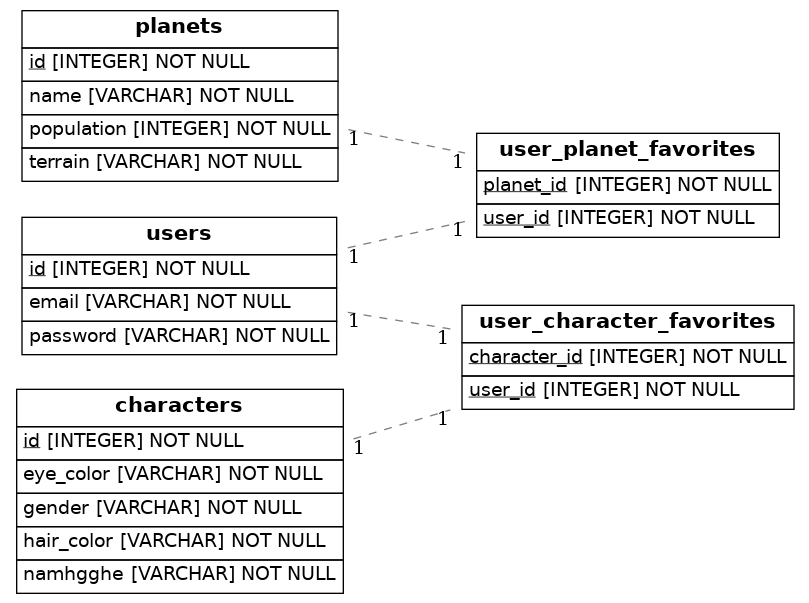
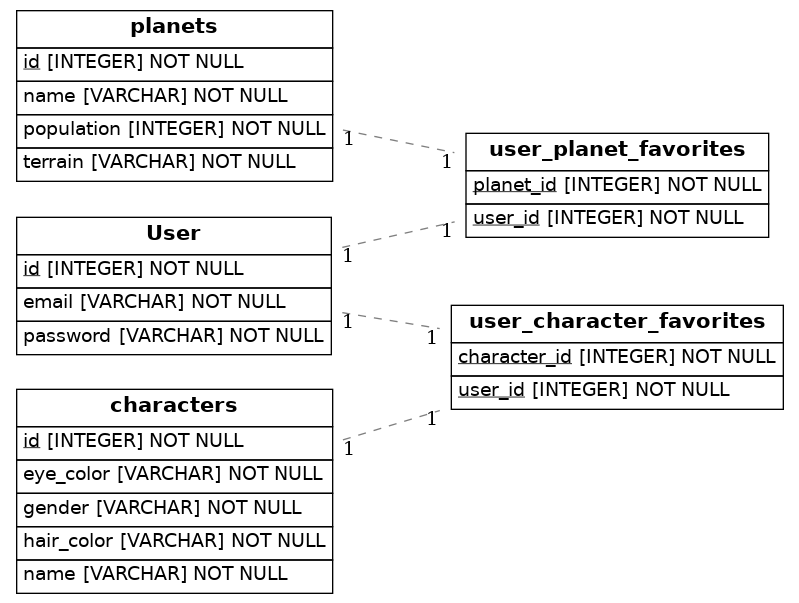
fixing one technicallity

diff --git a/src/models.py b/src/models.py
@@ -11,17 +11,17 @@ Base = declarative_base()
 class UserPlanetFavorite(Base):
     __tablename__ = "user_planet_favorites"
 
-    user_id = Column(Integer, ForeignKey("users.id"), primary_key=True)
+    user_id = Column(Integer, ForeignKey("User.id"), primary_key=True)
     planet_id = Column(Integer, ForeignKey("planets.id"), primary_key=True)
 
 class UserCharacterFavorite(Base):
     __tablename__ = "user_character_favorites"
 
-    user_id = Column(Integer, ForeignKey("users.id"), primary_key=True)
+    user_id = Column(Integer, ForeignKey("User.id"), primary_key=True)
     character_id = Column(Integer, ForeignKey("characters.id"), primary_key=True)
 
 class User(Base):
-    __tablename__ = "users"
+    __tablename__ = "User"
 
     id = Column(Integer, primary_key=True)
     email = Column(String, nullable=False)
